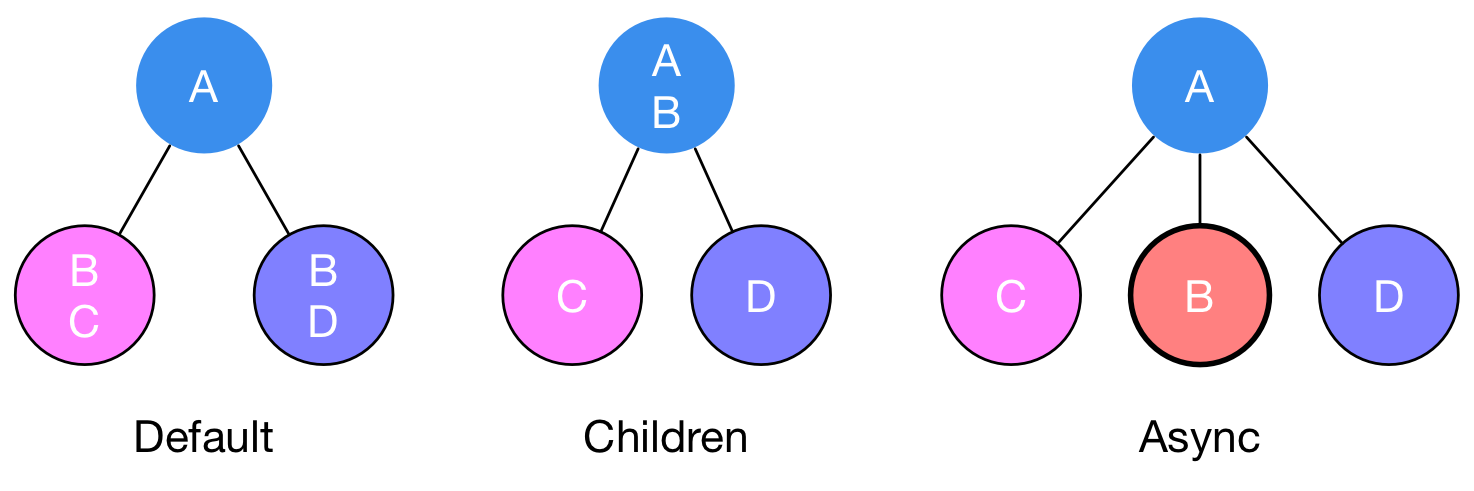
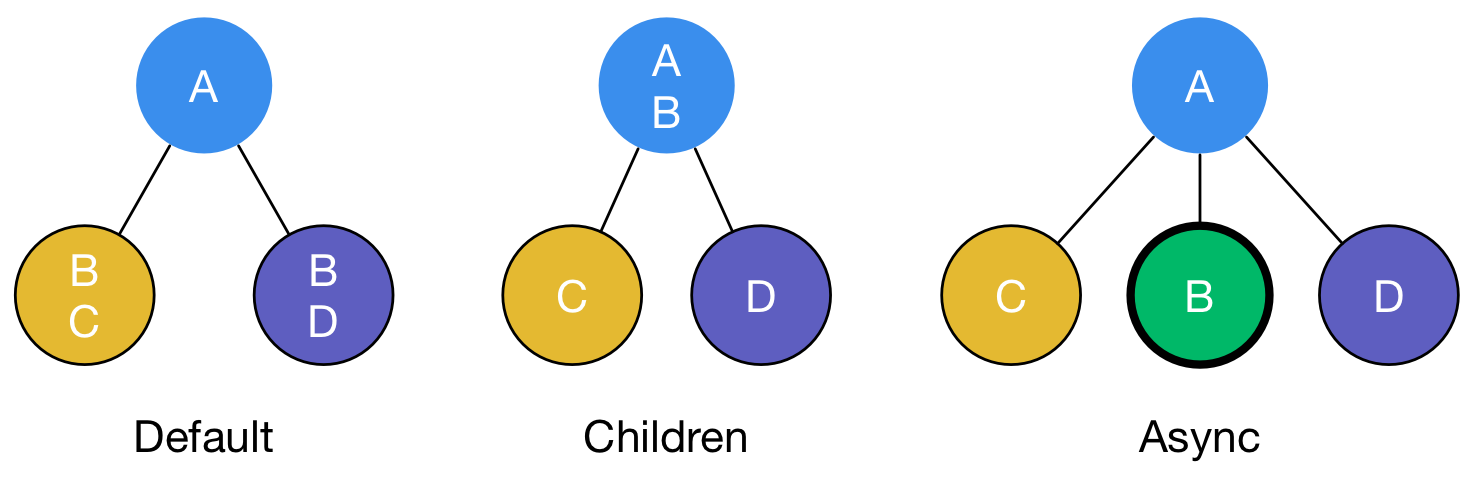
splitting bundles - Add explanation and improve colors

diff --git a/manuscript/building/02_splitting_bundles.md b/manuscript/building/02_splitting_bundles.md
@@ -359,6 +359,8 @@ T> Note that the `chunks` option refers to the entry chunks of your configuratio
 * `children` - If `children` is set to `true`, webpack will detect which modules are the same in the resulting bundles and push them to the parent bundle.
 * `async` - The idea is the same if `async` is set to `true`. In this case webpack will generate a separate bundle with the commonalities and load it asynchronously from the parent.
 
+The image below shows the difference compared to the default. The top circles represent the parent bundles. The way `B` is treated depends on the chosen option:
+
 ![`CommonsChunkPlugin` children and async](images/commonschunk.png)
 
 ## Splitting and Merging Chunks
